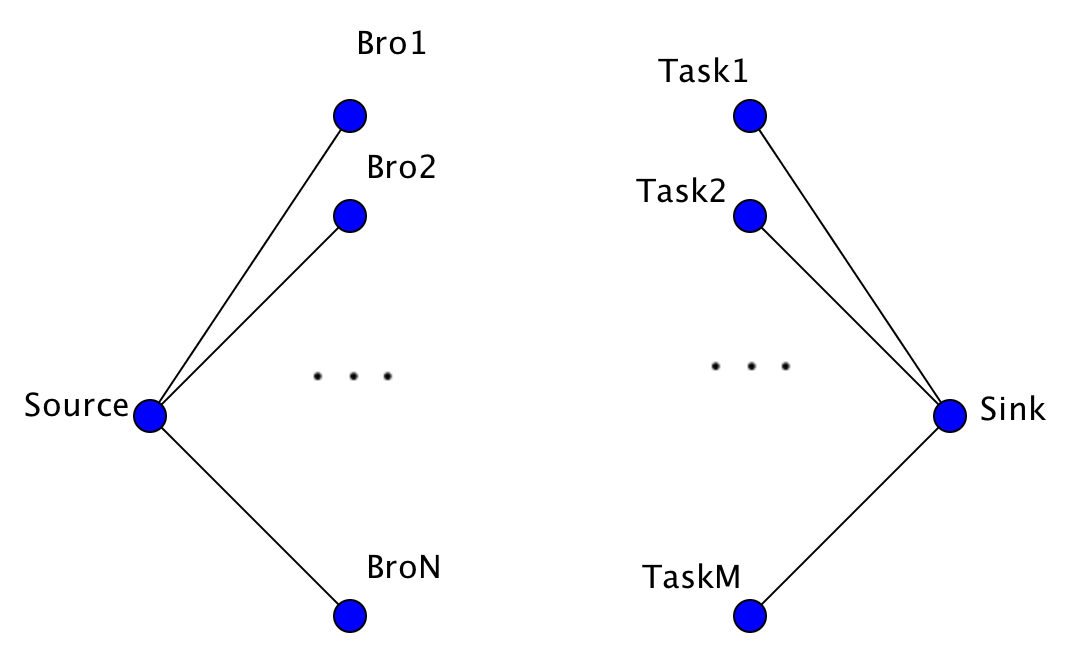
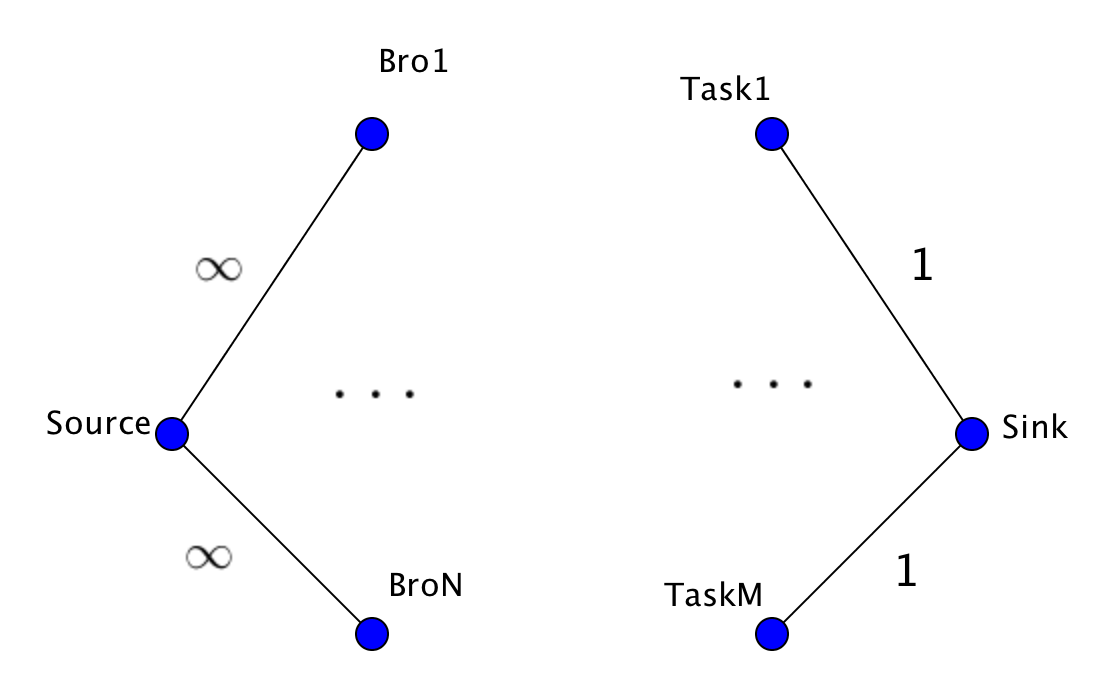
Updated Readme

diff --git a/README.md b/README.md
@@ -49,15 +49,18 @@ if all the midniths throught the week can be done (a valid assignment). This is 
 
 Suppose we have N bros that do midnights and M midnights this week. The M midnights are actually tuples of the form (chore, day) where chores is bathrooms, kitchens, etc and day is Sunday through Friday. We represent each bro and midnight as a vertex. We also add a source and a target vertex. We connect each of the bro vertices to the source vertex with an edge of capacity infinity. We also connect each midnight vertex to the target vertex with an edge of capacity 1.
 
-<img src="graph_img1.png" width="500" align = 'center'>
+<img src="graph_img1.png" width="500" align = 'middle'>
 
 
 ### Encoding Specification Constraints
 
 We also add an edge between every brother and every midnight. If brother b_i wants to do tmidnight m_j (based on both the chore and day), then the edge (b_i, m_j) will have capacity 1. Otherwise, this edge will have capacity 0. 
 
+<img src="graph_img2.png" width="500" align = 'middle'>
 
 ### Encoding Bucketing Constraints
+
+<img src="graph_img3.png" width="500" align = 'middle'>
 
 ### Max Flow 
 
